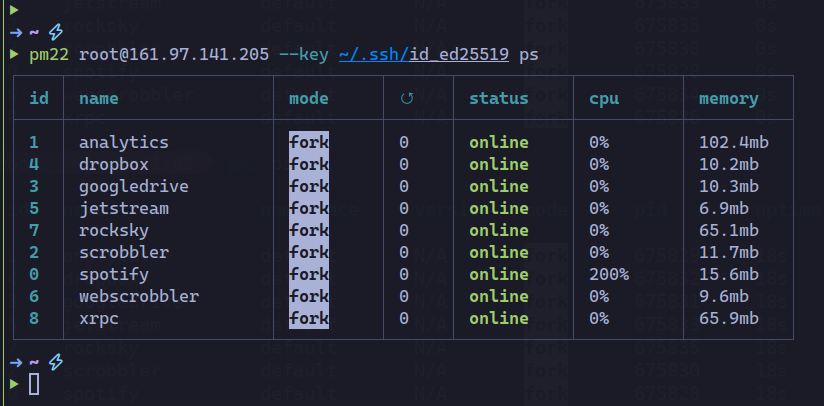
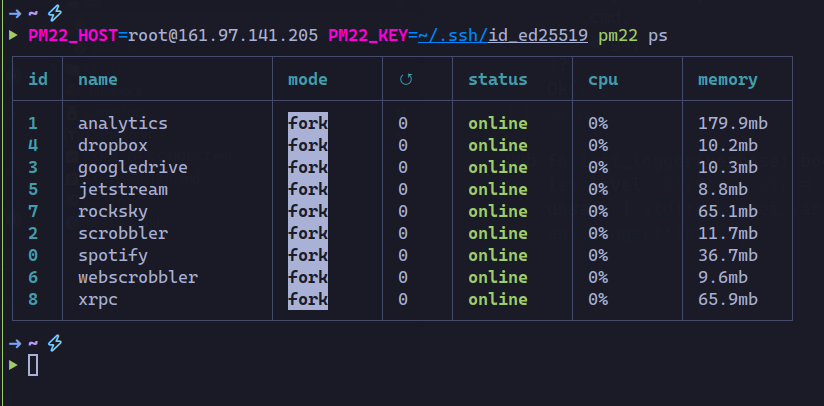
feat: add support for environment variable options

diff --git a/src/main.rs b/src/main.rs
@@ -1,16 +1,31 @@
 use crate::pm2::run_pm2_command;
 use clap::{Arg, Command as ClapCommand};
+use owo_colors::OwoColorize;
+use std::env;
 
 pub mod pm2;
 
 fn main() -> Result<(), Box<dyn std::error::Error>> {
+    let banner = format!(
+        "{}\nConnects to a remote server via SSH and executes PM2 commands",
+        r#"
+    ██████  ███    ███ ██████  ██████
+    ██   ██ ████  ████      ██      ██
+    ██████  ██ ████ ██  █████   █████
+    ██      ██  ██  ██ ██      ██
+    ██      ██      ██ ███████ ███████
+"#
+        .cyan()
+    );
     let matches = ClapCommand::new("pm22")
-        .about("Connects to a remote server via SSH and executes PM2 commands")
-        .version("0.1.0")
+        .about(&banner)
+        .version(env!("CARGO_PKG_VERSION"))
         .author("Tsiry Sandratraina <tsiry.sndr@rocksky.app>")
         .arg(
             Arg::new("host")
-                .required(true)
+                .short('h')
+                .long("host")
+                .default_value("PM22_HOST")
                 .help("Host to connect to, with username (e.g., user@host)"),
         )
         .arg(
@@ -51,16 +66,30 @@ fn main() -> Result<(), Box<dyn std::error::Error>> {
     let verbose = matches.get_flag("verbose");
     init_logger(verbose);
 
-    let host = matches.get_one::<String>("host").unwrap();
-    let port = matches.get_one::<String>("port").unwrap();
-    let key = matches.get_one::<String>("key").unwrap();
+    let host = env::var("PM22_HOST")
+        .unwrap_or_else(|_| matches.get_one::<String>("host").unwrap().to_string());
+    let host = match host.as_str() {
+        "PM22_HOST" => env::var("PM22_HOST")?,
+        _ => host,
+    };
+    let port = env::var("PM22_PORT")
+        .unwrap_or_else(|_| matches.get_one::<String>("port").unwrap().to_string());
+    matches.get_one::<String>("port").unwrap();
+    let key = env::var("PM22_KEY")
+        .unwrap_or_else(|_| matches.get_one::<String>("key").unwrap().to_string());
     let cmd = matches.get_one::<String>("cmd").unwrap();
     let args: Vec<&String> = matches
         .get_many::<String>("args")
         .map(|vals| vals.collect())
         .unwrap_or_default();
 
-    run_pm2_command(host, port.parse().unwrap_or(22), key, cmd, args)?;
+    run_pm2_command(
+        host.trim(),
+        port.parse().unwrap_or(22),
+        key.trim(),
+        cmd,
+        args,
+    )?;
     Ok(())
 }
 
